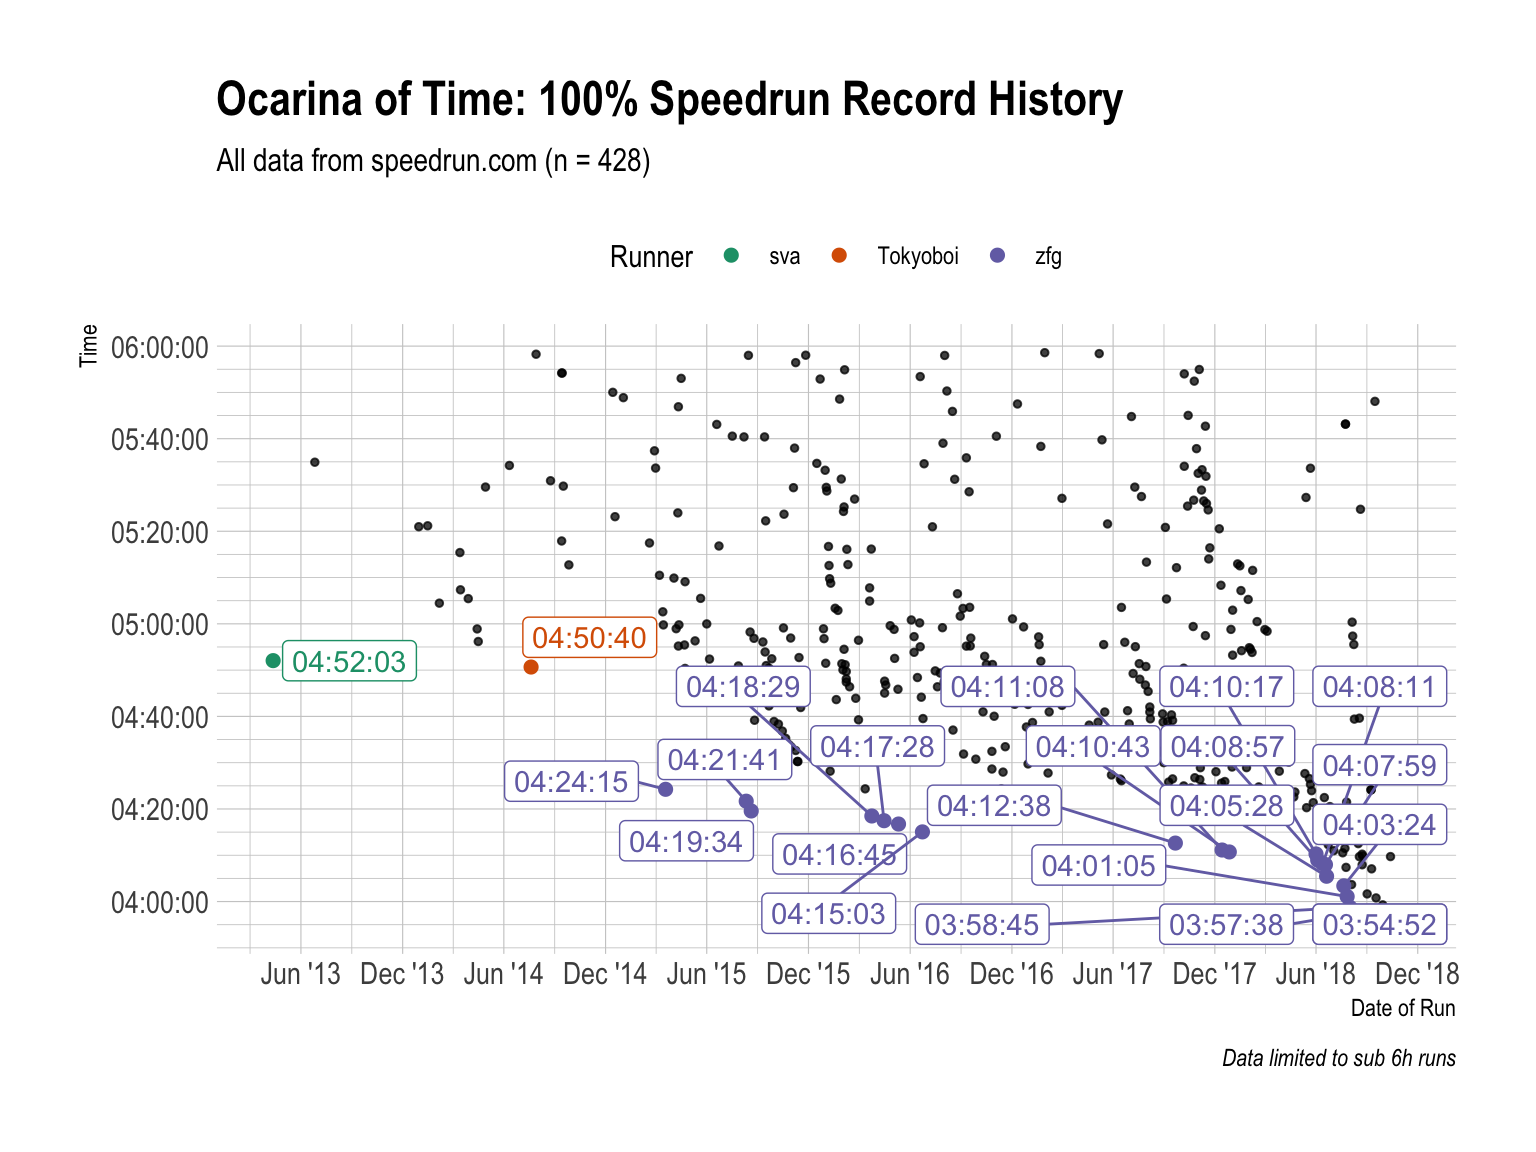
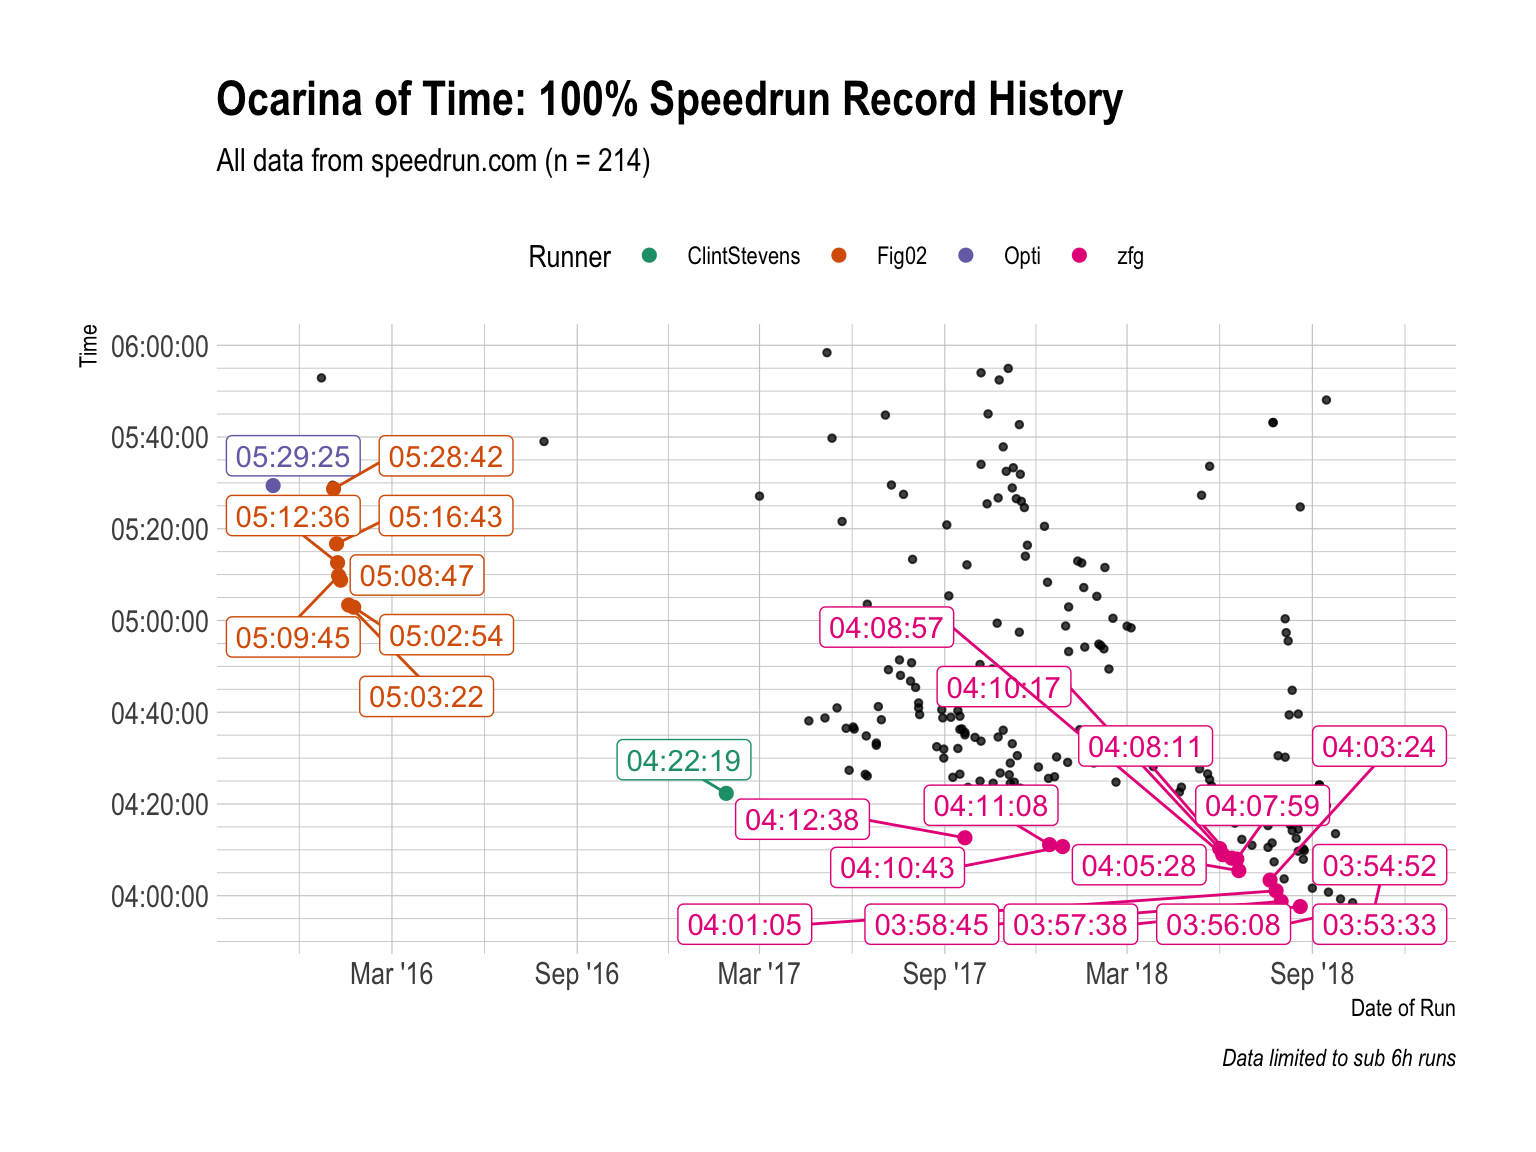
Rebuild everything

diff --git a/docs/articles/ocarina-of-time-100-.html b/docs/articles/ocarina-of-time-100-.html
@@ -83,7 +83,7 @@
       <h1>Ocarina of Time 100%</h1>
                         <h4 class="author">Lukas Burk</h4>
             
-            <h4 class="date">2018-11-24</h4>
+            <h4 class="date">2018-12-01</h4>
       
       <small class="dont-index">Source: <a href="https://github.com/jemus42/speedrunr/blob/master/vignettes/ocarina-of-time-100-.Rmd"><code>vignettes/ocarina-of-time-100-.Rmd</code></a></small>
       <div class="hidden name"><code>ocarina-of-time-100-.Rmd</code></div>
@@ -132,29 +132,32 @@
 <div class="sourceCode" id="cb3"><pre class="sourceCode r"><code class="sourceCode r"><a class="sourceLine" id="cb3-1" title="1">game &lt;-<span class="st"> "j1l9qz1g"</span></a>
 <a class="sourceLine" id="cb3-2" title="2">category &lt;-<span class="st"> "q255jw2o"</span></a>
 <a class="sourceLine" id="cb3-3" title="3"></a>
-<a class="sourceLine" id="cb3-4" title="4">oot100 &lt;-<span class="st"> </span><span class="kw"><a href="../reference/get_runs.html">get_runs</a></span>(<span class="dt">game =</span> <span class="st">"j1l9qz1g"</span>, <span class="dt">category =</span> <span class="st">"q255jw2o"</span>, <span class="dt">max =</span> <span class="ot">Inf</span>)</a></code></pre></div>
+<a class="sourceLine" id="cb3-4" title="4">oot100 &lt;-<span class="st"> </span><span class="kw"><a href="../reference/get_runs.html">get_runs</a></span>(<span class="dt">game =</span> <span class="st">"j1l9qz1g"</span>, <span class="dt">category =</span> <span class="st">"q255jw2o"</span>, <span class="dt">max =</span> <span class="ot">Inf</span>)</a>
+<a class="sourceLine" id="cb3-5" title="5"><span class="co">#&gt; Warning in sr_get("runs", game = game, category = category, max = max,</span></a>
+<a class="sourceLine" id="cb3-6" title="6"><span class="co">#&gt; status = status, : Bad Gateway (HTTP 502).</span></a>
+<a class="sourceLine" id="cb3-7" title="7"><span class="co">#&gt; Warning: Unknown or uninitialised column: 'rel'.</span></a></code></pre></div>
 <p>Note that I’m useing <code>max = Inf</code> to make sure I get <em>all</em> the runs.</p>
 <div class="sourceCode" id="cb4"><pre class="sourceCode r"><code class="sourceCode r"><a class="sourceLine" id="cb4-1" title="1"><span class="kw"><a href="https://www.rdocumentation.org/packages/utils/topics/str">str</a></span>(oot100)</a>
-<a class="sourceLine" id="cb4-2" title="2"><span class="co">#&gt; Classes 'tbl_df', 'tbl' and 'data.frame':    539 obs. of  22 variables:</span></a>
-<a class="sourceLine" id="cb4-3" title="3"><span class="co">#&gt;  $ id             : chr  "z11p7k9z" "yl4ej6rm" "z51vk85m" "yl4r56rm" ...</span></a>
-<a class="sourceLine" id="cb4-4" title="4"><span class="co">#&gt;  $ weblink        : chr  "https://www.speedrun.com/oot/run/z11p7k9z" "https://www.speedrun.com/oot/run/yl4ej6rm" "https://www.speedrun.com/oot/run/z51vk85m" "https://www.speedrun.com/oot/run/yl4r56rm" ...</span></a>
+<a class="sourceLine" id="cb4-2" title="2"><span class="co">#&gt; Classes 'tbl_df', 'tbl' and 'data.frame':    240 obs. of  22 variables:</span></a>
+<a class="sourceLine" id="cb4-3" title="3"><span class="co">#&gt;  $ id             : chr  "zx4nn18y" "z11p7k9z" "yl4ej6rm" "z51vk85m" ...</span></a>
+<a class="sourceLine" id="cb4-4" title="4"><span class="co">#&gt;  $ weblink        : chr  "https://www.speedrun.com/oot/run/zx4nn18y" "https://www.speedrun.com/oot/run/z11p7k9z" "https://www.speedrun.com/oot/run/yl4ej6rm" "https://www.speedrun.com/oot/run/z51vk85m" ...</span></a>
 <a class="sourceLine" id="cb4-5" title="5"><span class="co">#&gt;  $ game           : chr  "j1l9qz1g" "j1l9qz1g" "j1l9qz1g" "j1l9qz1g" ...</span></a>
 <a class="sourceLine" id="cb4-6" title="6"><span class="co">#&gt;  $ level          : logi  NA NA NA NA NA NA ...</span></a>
 <a class="sourceLine" id="cb4-7" title="7"><span class="co">#&gt;  $ category       : chr  "q255jw2o" "q255jw2o" "q255jw2o" "q255jw2o" ...</span></a>
-<a class="sourceLine" id="cb4-8" title="8"><span class="co">#&gt;  $ videos         : chr  "https://www.youtube.com/watch?v=HaUTONEwj8I" "https://www.youtube.com/watch?v=ad-56T4uJto" "https://www.youtube.com/watch?v=jTH_lZNUeGA" "https://www.youtube.com/watch?v=gZjxgUpNNOM" ...</span></a>
+<a class="sourceLine" id="cb4-8" title="8"><span class="co">#&gt;  $ videos         : chr  "https://www.youtube.com/watch?v=Mv3kM8cV2C8" "https://www.youtube.com/watch?v=HaUTONEwj8I" "https://www.youtube.com/watch?v=ad-56T4uJto" "https://www.youtube.com/watch?v=jTH_lZNUeGA" ...</span></a>
 <a class="sourceLine" id="cb4-9" title="9"><span class="co">#&gt;  $ status         : chr  "verified" "verified" "verified" "verified" ...</span></a>
-<a class="sourceLine" id="cb4-10" title="10"><span class="co">#&gt;  $ comment        : chr  "2nd try dampe" "Biggest mistake was losing 1:20 to forgetting a heart piece lol. Average RNG, 40 seconds to save at each of fis"| __truncated__ NA NA ...</span></a>
-<a class="sourceLine" id="cb4-11" title="11"><span class="co">#&gt;  $ player_id      : chr  "e8e5v680" "qjn35kwx" "v819rrxp" "v819rrxp" ...</span></a>
-<a class="sourceLine" id="cb4-12" title="12"><span class="co">#&gt;  $ player_url     : chr  "https://www.speedrun.com/user/zfg" "https://www.speedrun.com/user/dannyb21892" "https://www.speedrun.com/user/Marco" "https://www.speedrun.com/user/Marco" ...</span></a>
-<a class="sourceLine" id="cb4-13" title="13"><span class="co">#&gt;  $ player_name    : chr  "zfg" "dannyb21892" "Marco" "Marco" ...</span></a>
+<a class="sourceLine" id="cb4-10" title="10"><span class="co">#&gt;  $ comment        : chr  "1st try dampe" "2nd try dampe" "Biggest mistake was losing 1:20 to forgetting a heart piece lol. Average RNG, 40 seconds to save at each of fis"| __truncated__ NA ...</span></a>
+<a class="sourceLine" id="cb4-11" title="11"><span class="co">#&gt;  $ player_id      : chr  "e8e5v680" "e8e5v680" "qjn35kwx" "v819rrxp" ...</span></a>
+<a class="sourceLine" id="cb4-12" title="12"><span class="co">#&gt;  $ player_url     : chr  "https://www.speedrun.com/user/zfg" "https://www.speedrun.com/user/zfg" "https://www.speedrun.com/user/dannyb21892" "https://www.speedrun.com/user/Marco" ...</span></a>
+<a class="sourceLine" id="cb4-13" title="13"><span class="co">#&gt;  $ player_name    : chr  "zfg" "zfg" "dannyb21892" "Marco" ...</span></a>
 <a class="sourceLine" id="cb4-14" title="14"><span class="co">#&gt;  $ player_role    : chr  "user" "user" "user" "user" ...</span></a>
-<a class="sourceLine" id="cb4-15" title="15"><span class="co">#&gt;  $ player_signup  : POSIXct, format: "2015-02-17 03:55:57" "2015-10-28 13:39:39" ...</span></a>
-<a class="sourceLine" id="cb4-16" title="16"><span class="co">#&gt;  $ date           : Date, format: "2018-10-30" "2018-10-13" ...</span></a>
-<a class="sourceLine" id="cb4-17" title="17"><span class="co">#&gt;  $ submitted      : POSIXct, format: "2018-10-31 01:33:08" "2018-10-13 20:39:56" ...</span></a>
-<a class="sourceLine" id="cb4-18" title="18"><span class="co">#&gt;  $ time_primary   : int  14092 14983 14308 14357 15211 14168 14447 20884 15577 22987 ...</span></a>
-<a class="sourceLine" id="cb4-19" title="19"><span class="co">#&gt;  $ time_realtime  : int  14092 14983 14308 14357 15211 14168 14447 20884 15577 22987 ...</span></a>
+<a class="sourceLine" id="cb4-15" title="15"><span class="co">#&gt;  $ player_signup  : POSIXct, format: "2015-02-17 03:55:57" "2015-02-17 03:55:57" ...</span></a>
+<a class="sourceLine" id="cb4-16" title="16"><span class="co">#&gt;  $ date           : Date, format: "2018-11-27" "2018-10-30" ...</span></a>
+<a class="sourceLine" id="cb4-17" title="17"><span class="co">#&gt;  $ submitted      : POSIXct, format: "2018-11-28 02:03:45" "2018-10-31 01:33:08" ...</span></a>
+<a class="sourceLine" id="cb4-18" title="18"><span class="co">#&gt;  $ time_primary   : int  14013 14092 14983 14308 14357 15211 14168 14447 20884 15577 ...</span></a>
+<a class="sourceLine" id="cb4-19" title="19"><span class="co">#&gt;  $ time_realtime  : int  14013 14092 14983 14308 14357 15211 14168 14447 20884 15577 ...</span></a>
 <a class="sourceLine" id="cb4-20" title="20"><span class="co">#&gt;  $ time_ingame    : int  0 0 0 0 0 0 0 0 0 0 ...</span></a>
-<a class="sourceLine" id="cb4-21" title="21"><span class="co">#&gt;  $ time_hms       : 'hms' num  03:54:52 04:09:43 03:58:28 03:59:17 ...</span></a>
+<a class="sourceLine" id="cb4-21" title="21"><span class="co">#&gt;  $ time_hms       : 'hms' num  03:53:33 03:54:52 04:09:43 03:58:28 ...</span></a>
 <a class="sourceLine" id="cb4-22" title="22"><span class="co">#&gt;   ..- attr(*, "units")= chr "secs"</span></a>
 <a class="sourceLine" id="cb4-23" title="23"><span class="co">#&gt;  $ system_platform: chr  "nzelreqp" "nzelreqp" "nzelreqp" "nzelreqp" ...</span></a>
 <a class="sourceLine" id="cb4-24" title="24"><span class="co">#&gt;  $ system_emulated: logi  FALSE FALSE FALSE FALSE FALSE FALSE ...</span></a>
@@ -183,72 +186,72 @@
 </tr></thead>
 <tbody>
 <tr class="odd">
+<td align="left">03:53:33</td>
+<td align="left">zfg</td>
+<td align="left">2018-11-27</td>
+<td align="left">Wii Virtual Console</td>
+<td align="left">JPN / NTSC</td>
+</tr>
+<tr class="even">
 <td align="left">03:54:52</td>
 <td align="left">zfg</td>
 <td align="left">2018-10-30</td>
 <td align="left">Wii Virtual Console</td>
 <td align="left">JPN / NTSC</td>
 </tr>
-<tr class="even">
+<tr class="odd">
 <td align="left">03:56:08</td>
 <td align="left">zfg</td>
 <td align="left">2018-09-22</td>
 <td align="left">Wii Virtual Console</td>
 <td align="left">JPN / NTSC</td>
 </tr>
-<tr class="odd">
+<tr class="even">
 <td align="left">03:57:38</td>
 <td align="left">zfg</td>
 <td align="left">2018-08-20</td>
 <td align="left">Wii Virtual Console</td>
 <td align="left">JPN / NTSC</td>
 </tr>
-<tr class="even">
+<tr class="odd">
 <td align="left">03:58:28</td>
 <td align="left">Marco</td>
 <td align="left">2018-10-11</td>
 <td align="left">Wii Virtual Console</td>
 <td align="left">JPN / NTSC</td>
 </tr>
-<tr class="odd">
+<tr class="even">
 <td align="left">03:58:45</td>
 <td align="left">zfg</td>
 <td align="left">2018-08-01</td>
 <td align="left">Wii Virtual Console</td>
 <td align="left">JPN / NTSC</td>
 </tr>
-<tr class="even">
+<tr class="odd">
 <td align="left">03:59:17</td>
 <td align="left">Marco</td>
 <td align="left">2018-09-29</td>
 <td align="left">Wii Virtual Console</td>
 <td align="left">JPN / NTSC</td>
 </tr>
-<tr class="odd">
+<tr class="even">
 <td align="left">04:00:47</td>
 <td align="left">Marco</td>
 <td align="left">2018-09-17</td>
 <td align="left">Wii Virtual Console</td>
 <td align="left">JPN / NTSC</td>
 </tr>
-<tr class="even">
+<tr class="odd">
 <td align="left">04:01:05</td>
 <td align="left">zfg</td>
 <td align="left">2018-07-27</td>
 <td align="left">Wii Virtual Console</td>
 <td align="left">JPN / NTSC</td>
 </tr>
-<tr class="odd">
+<tr class="even">
 <td align="left">04:01:39</td>
 <td align="left">Marco</td>
 <td align="left">2018-09-01</td>
-<td align="left">Wii Virtual Console</td>
-<td align="left">JPN / NTSC</td>
-</tr>
-<tr class="even">
-<td align="left">04:03:24</td>
-<td align="left">zfg</td>
-<td align="left">2018-07-21</td>
 <td align="left">Wii Virtual Console</td>
 <td align="left">JPN / NTSC</td>
 </tr>

diff --git a/docs/index.html b/docs/index.html
@@ -327,104 +327,104 @@ Let’s get started:</p>
 </tr></thead>
 <tbody>
 <tr class="odd">
+<td align="left">2018-11-28 02:03:45</td>
+<td align="left">03:53:33</td>
+<td align="left"><a href="https://www.speedrun.com/user/zfg" class="uri">https://www.speedrun.com/user/zfg</a></td>
+</tr>
+<tr class="even">
 <td align="left">2018-10-31 01:33:08</td>
 <td align="left">03:54:52</td>
 <td align="left"><a href="https://www.speedrun.com/user/zfg" class="uri">https://www.speedrun.com/user/zfg</a></td>
 </tr>
-<tr class="even">
+<tr class="odd">
 <td align="left">2018-09-23 01:03:54</td>
 <td align="left">03:56:08</td>
 <td align="left"><a href="https://www.speedrun.com/user/zfg" class="uri">https://www.speedrun.com/user/zfg</a></td>
 </tr>
-<tr class="odd">
+<tr class="even">
 <td align="left">2018-08-21 04:27:10</td>
 <td align="left">03:57:38</td>
 <td align="left"><a href="https://www.speedrun.com/user/zfg" class="uri">https://www.speedrun.com/user/zfg</a></td>
 </tr>
-<tr class="even">
+<tr class="odd">
 <td align="left">2018-10-11 04:03:38</td>
 <td align="left">03:58:28</td>
 <td align="left"><a href="https://www.speedrun.com/user/Marco" class="uri">https://www.speedrun.com/user/Marco</a></td>
 </tr>
-<tr class="odd">
+<tr class="even">
 <td align="left">2018-08-02 02:15:56</td>
 <td align="left">03:58:45</td>
 <td align="left"><a href="https://www.speedrun.com/user/zfg" class="uri">https://www.speedrun.com/user/zfg</a></td>
 </tr>
-<tr class="even">
+<tr class="odd">
 <td align="left">2018-09-29 13:12:43</td>
 <td align="left">03:59:17</td>
 <td align="left"><a href="https://www.speedrun.com/user/Marco" class="uri">https://www.speedrun.com/user/Marco</a></td>
 </tr>
-<tr class="odd">
+<tr class="even">
 <td align="left">2018-09-17 12:49:58</td>
 <td align="left">04:00:47</td>
 <td align="left"><a href="https://www.speedrun.com/user/Marco" class="uri">https://www.speedrun.com/user/Marco</a></td>
 </tr>
-<tr class="even">
+<tr class="odd">
 <td align="left">2018-07-28 05:47:32</td>
 <td align="left">04:01:05</td>
 <td align="left"><a href="https://www.speedrun.com/user/zfg" class="uri">https://www.speedrun.com/user/zfg</a></td>
 </tr>
-<tr class="odd">
+<tr class="even">
 <td align="left">2018-09-01 04:40:41</td>
 <td align="left">04:01:39</td>
 <td align="left"><a href="https://www.speedrun.com/user/Marco" class="uri">https://www.speedrun.com/user/Marco</a></td>
 </tr>
-<tr class="even">
+<tr class="odd">
 <td align="left">2018-07-22 03:15:39</td>
 <td align="left">04:03:24</td>
 <td align="left"><a href="https://www.speedrun.com/user/zfg" class="uri">https://www.speedrun.com/user/zfg</a></td>
 </tr>
-<tr class="odd">
+<tr class="even">
 <td align="left">2018-08-04 04:03:15</td>
 <td align="left">04:03:40</td>
 <td align="left"><a href="https://www.speedrun.com/user/Marco" class="uri">https://www.speedrun.com/user/Marco</a></td>
 </tr>
-<tr class="even">
+<tr class="odd">
 <td align="left">2018-06-21 02:28:51</td>
 <td align="left">04:05:28</td>
 <td align="left"><a href="https://www.speedrun.com/user/zfg" class="uri">https://www.speedrun.com/user/zfg</a></td>
 </tr>
-<tr class="odd">
+<tr class="even">
 <td align="left">2018-09-09 23:02:52</td>
 <td align="left">04:07:04</td>
 <td align="left"><a href="https://www.speedrun.com/user/MasterMonk1991" class="uri">https://www.speedrun.com/user/MasterMonk1991</a></td>
 </tr>
-<tr class="even">
+<tr class="odd">
 <td align="left">2018-07-25 04:07:52</td>
 <td align="left">04:07:23</td>
 <td align="left"><a href="https://www.speedrun.com/user/Marco" class="uri">https://www.speedrun.com/user/Marco</a></td>
 </tr>
-<tr class="odd">
+<tr class="even">
 <td align="left">2018-08-23 00:22:32</td>
 <td align="left">04:07:57</td>
 <td align="left"><a href="https://www.speedrun.com/user/Bonooru" class="uri">https://www.speedrun.com/user/Bonooru</a></td>
 </tr>
-<tr class="even">
+<tr class="odd">
 <td align="left">2018-06-19 05:20:57</td>
 <td align="left">04:07:59</td>
 <td align="left"><a href="https://www.speedrun.com/user/zfg" class="uri">https://www.speedrun.com/user/zfg</a></td>
 </tr>
-<tr class="odd">
+<tr class="even">
 <td align="left">2018-06-14 04:01:53</td>
 <td align="left">04:08:11</td>
 <td align="left"><a href="https://www.speedrun.com/user/zfg" class="uri">https://www.speedrun.com/user/zfg</a></td>
 </tr>
-<tr class="even">
+<tr class="odd">
 <td align="left">2018-06-05 03:41:59</td>
 <td align="left">04:08:57</td>
 <td align="left"><a href="https://www.speedrun.com/user/zfg" class="uri">https://www.speedrun.com/user/zfg</a></td>
 </tr>
-<tr class="odd">
+<tr class="even">
 <td align="left">2018-08-18 03:12:47</td>
 <td align="left">04:09:42</td>
 <td align="left"><a href="https://www.speedrun.com/user/Bonooru" class="uri">https://www.speedrun.com/user/Bonooru</a></td>
-</tr>
-<tr class="even">
-<td align="left">2018-10-13 20:39:56</td>
-<td align="left">04:09:43</td>
-<td align="left"><a href="https://www.speedrun.com/user/dannyb21892" class="uri">https://www.speedrun.com/user/dannyb21892</a></td>
 </tr>
 </tbody>
 </table>
@@ -532,27 +532,27 @@ Let’s get started:</p>
 </tr></thead>
 <tbody>
 <tr class="odd">
-<td align="right">17671</td>
-<td align="left">JPN / NTSC</td>
-<td align="left">Nintendo 64</td>
-</tr>
-<tr class="even">
-<td align="right">18752</td>
-<td align="left">JPN / NTSC</td>
-<td align="left">Nintendo 64</td>
-</tr>
-<tr class="odd">
-<td align="right">14447</td>
+<td align="right">14013</td>
 <td align="left">JPN / NTSC</td>
 <td align="left">Wii Virtual Console</td>
 </tr>
 <tr class="even">
-<td align="right">19765</td>
+<td align="right">15350</td>
+<td align="left">JPN / NTSC</td>
+<td align="left">Wii Virtual Console</td>
+</tr>
+<tr class="odd">
+<td align="right">15886</td>
+<td align="left">JPN / NTSC</td>
+<td align="left">Wii Virtual Console</td>
+</tr>
+<tr class="even">
+<td align="right">18693</td>
 <td align="left">JPN / NTSC</td>
 <td align="left">Nintendo 64</td>
 </tr>
 <tr class="odd">
-<td align="right">15032</td>
+<td align="right">15211</td>
 <td align="left">JPN / NTSC</td>
 <td align="left">Wii Virtual Console</td>
 </tr>

diff --git a/docs/news/index.html b/docs/news/index.html
@@ -115,9 +115,9 @@
       <small>Source: <a href='https://github.com/jemus42/speedrunr/blob/master/NEWS.md'><code>NEWS.md</code></a></small>
     </div>
 
-    <div id="speedrunr-0-2-9000" class="section level1">
+    <div id="speedrunr-029000" class="section level1">
 <h1 class="page-header">
-<a href="#speedrunr-0-2-9000" class="anchor"></a>speedrunr 0.2.9000</h1>
+<a href="#speedrunr-029000" class="anchor"></a>speedrunr 0.2.9000</h1>
 <ul>
 <li>Organizational:
 <ul>
@@ -132,9 +132,9 @@
 </li>
 </ul>
 </div>
-    <div id="speedrunr-0-2" class="section level1">
+    <div id="speedrunr-02" class="section level1">
 <h1 class="page-header">
-<a href="#speedrunr-0-2" class="anchor"></a>speedrunr 0.2</h1>
+<a href="#speedrunr-02" class="anchor"></a>speedrunr 0.2</h1>
 <ul>
 <li>Added datasets: <code>platforms</code> and <code>regions</code> for easier id resolving.</li>
 <li>Added functions:
@@ -164,9 +164,9 @@
 </li>
 </ul>
 </div>
-    <div id="speedrunr-0-1" class="section level1">
+    <div id="speedrunr-01" class="section level1">
 <h1 class="page-header">
-<a href="#speedrunr-0-1" class="anchor"></a>speedrunr 0.1</h1>
+<a href="#speedrunr-01" class="anchor"></a>speedrunr 0.1</h1>
 <ul>
 <li>Added a <code>NEWS.md</code> file to track changes to the package.</li>
 <li>Added functions:
@@ -197,9 +197,9 @@
     <div id="tocnav">
       <h2>Contents</h2>
       <ul class="nav nav-pills nav-stacked">
-        <li><a href="#speedrunr-0-2-9000">0.2.9000</a></li>
-        <li><a href="#speedrunr-0-2">0.2</a></li>
-        <li><a href="#speedrunr-0-1">0.1</a></li>
+        <li><a href="#speedrunr-029000">0.2.9000</a></li>
+        <li><a href="#speedrunr-02">0.2</a></li>
+        <li><a href="#speedrunr-01">0.1</a></li>
       </ul>
     </div>
   </div>

diff --git a/docs/CONTRIBUTING.html b/docs/CONTRIBUTING.html
@@ -153,9 +153,9 @@
 <a href="#code-of-conduct" class="anchor"></a>Code of Conduct</h3>
 <p>Please note that this project is released with a <a href="CODE_OF_CONDUCT.html">Contributor Code of Conduct</a>. By participating in this project you agree to abide by its terms.</p>
 </div>
-<div id="see-tidyverse-development-contributing-guide-for-further-details-" class="section level3">
+<div id="see-tidyverse-development-contributing-guide-for-further-details" class="section level3">
 <h3 class="hasAnchor">
-<a href="#see-tidyverse-development-contributing-guide-for-further-details-" class="anchor"></a>See tidyverse <a href="https://rstd.io/tidy-contrib">development contributing guide</a> for further details.</h3>
+<a href="#see-tidyverse-development-contributing-guide-for-further-details" class="anchor"></a>See tidyverse <a href="https://rstd.io/tidy-contrib">development contributing guide</a> for further details.</h3>
 </div>
 </div>
 
